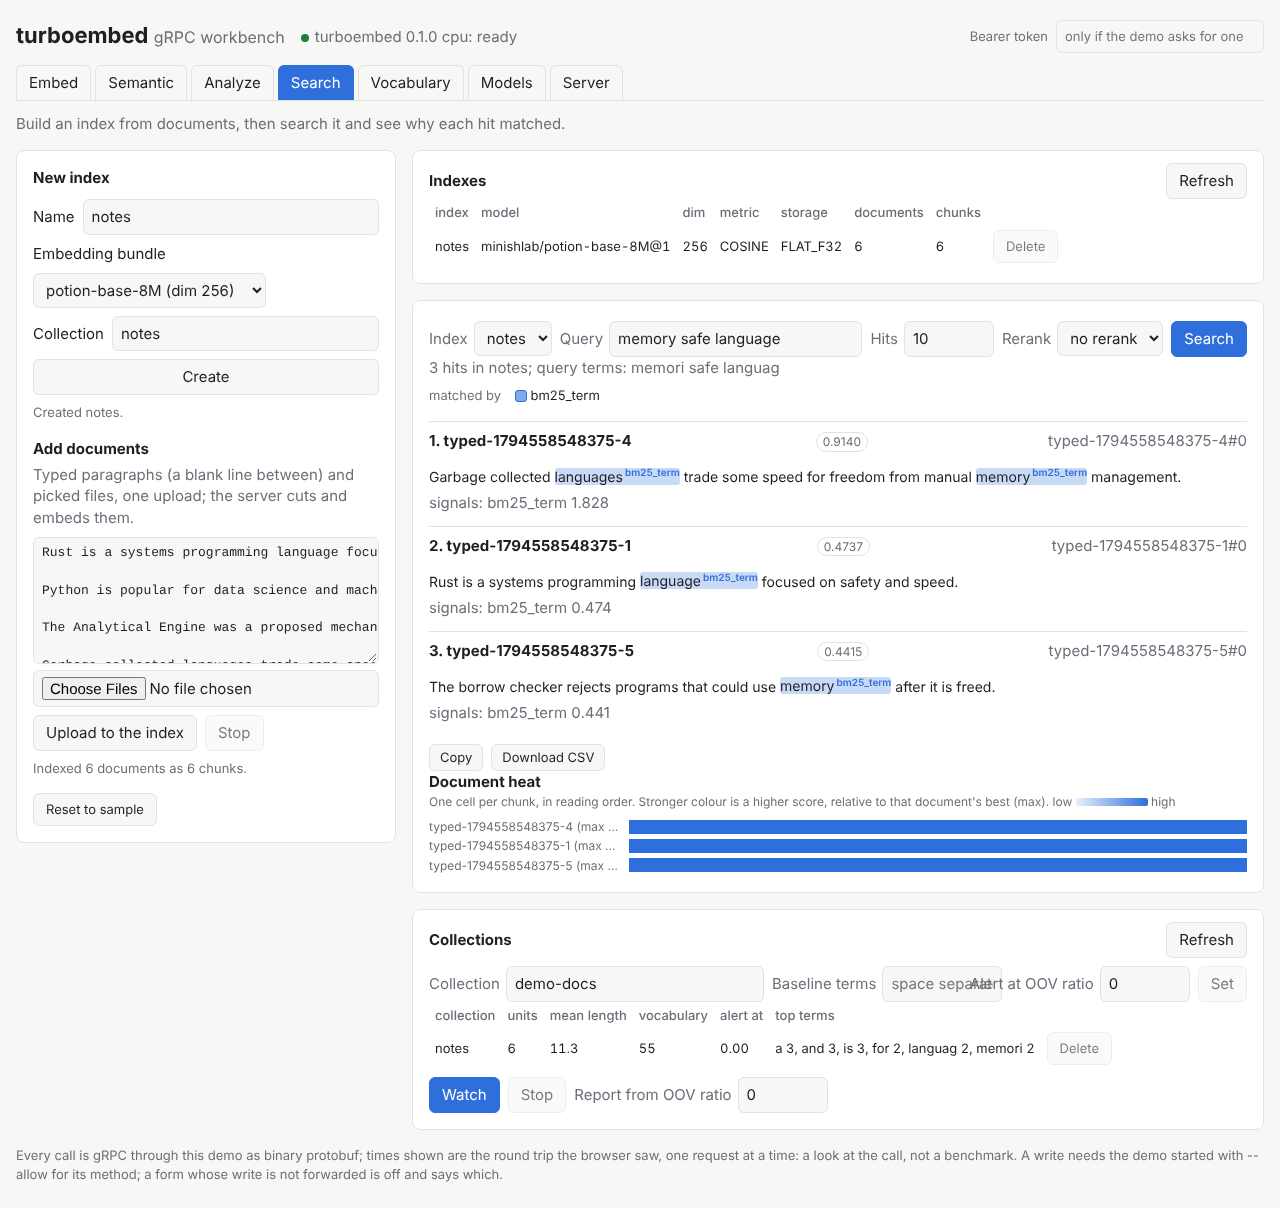
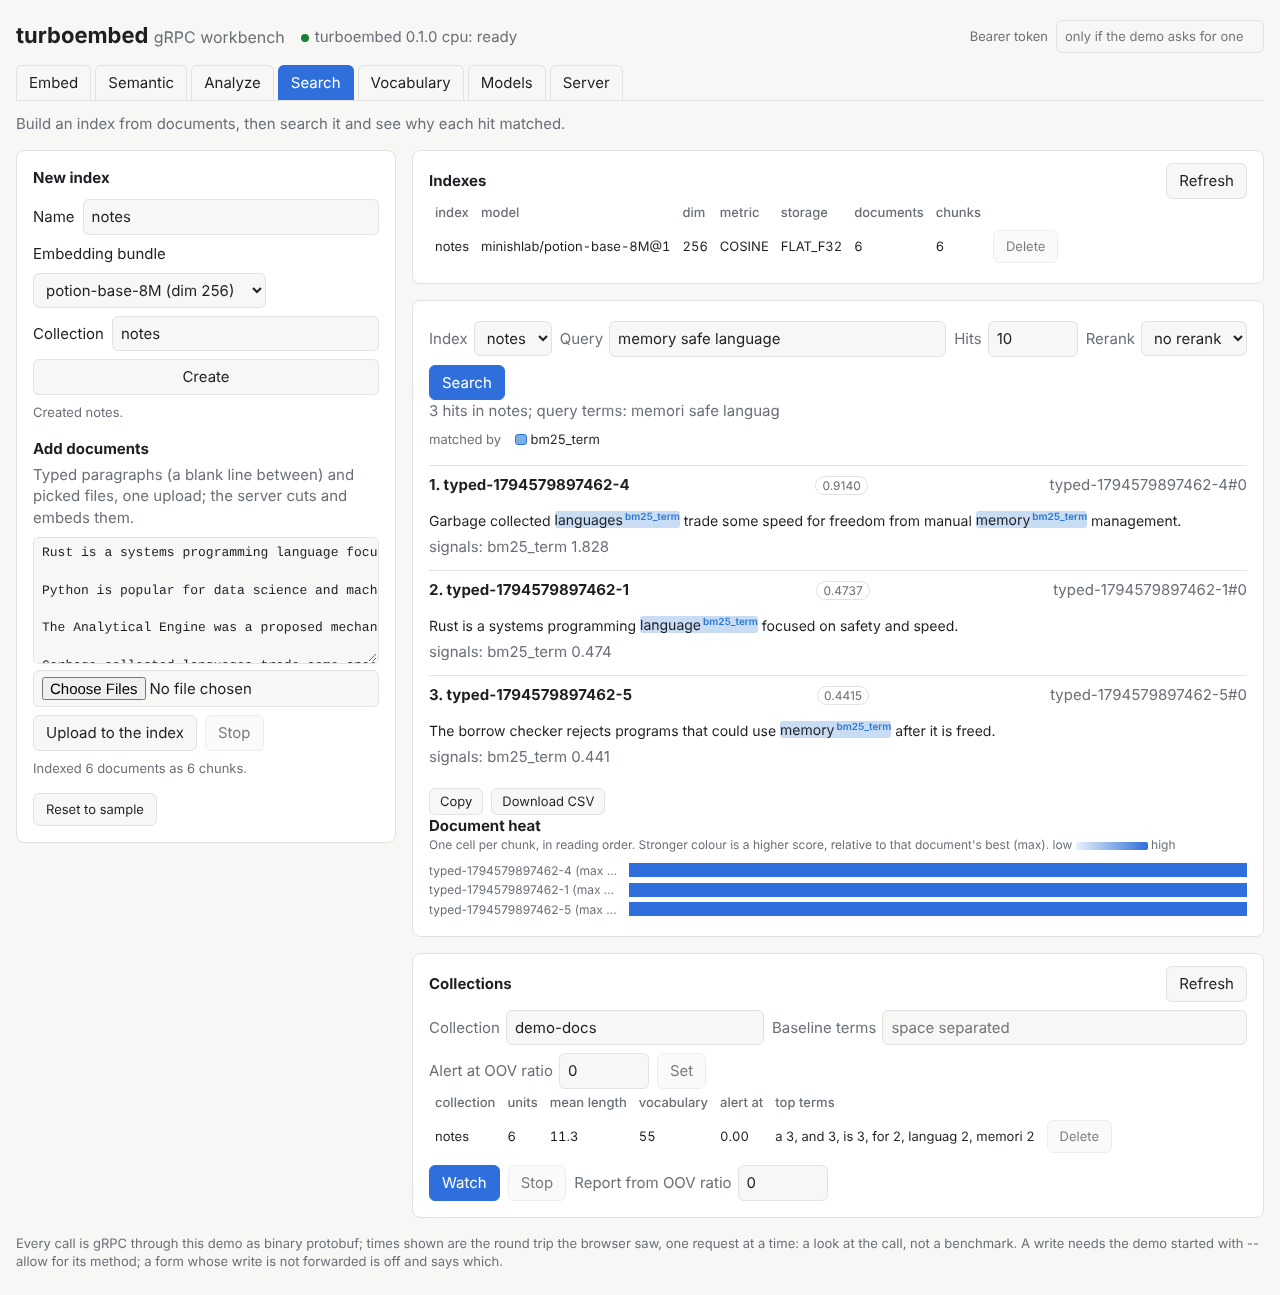
Retake the demo screenshots with the document map
Every picture in docs/images/demo is taken again on the current page,
and a new pair, analyze-map, shows the Document map: the meaning map,
the topic seismograph and the term river. The Analyze sample is a
longer document on four topics, Vocabulary learns in English with the
stopwords dropped, and scripts/demo-screenshots.sh takes
TURBO_SHOTS_MAX_SEQ so a static model's 8192 token width does not put
the whole sample in one chunk (the pictures use 128).

Claude-Session: https://claude.ai/code/session_01HaMXddYSHRx1SrGepnf1ft

diff --git a/demo/web/e2e/screenshots.ts b/demo/web/e2e/screenshots.ts
@@ -13,15 +13,25 @@ const MODEL = process.env.TURBO_SHOTS_MODEL ?? "";
 const WIDTH = 1280;
 const HEIGHT = 860;
 
-const DOCUMENT = `Ada Lovelace wrote the first published program in 1843. She worked with Charles Babbage in London on the Analytical Engine, a mechanical computer that was never finished.
+const DOCUMENT = `Ada Lovelace wrote the first published program in 1843. She worked with Charles Babbage in London on the Analytical Engine, a mechanical computer that was never finished. Babbage had designed the machine to read instructions from punched cards, an idea borrowed from the looms of the textile trade.
 
-Her notes describe how the engine could compute Bernoulli numbers, and they suggest that such a machine might one day compose music or draw graphics.
+Her notes on the engine are longer than the paper they accompany. They describe how it could compute Bernoulli numbers step by step, and they suggest that such a machine might one day compose music or draw graphics if its symbols stood for notes or shapes rather than numbers.
 
-The central bank in Frankfurt raised interest rates again this spring. Inflation had pushed borrowing costs higher across Europe, and lenders in Paris and Madrid followed within a week.
+Historians still argue over how much of the program was hers and how much came from Babbage, but the notes show a clear grasp of loops, of variables that change as a calculation proceeds, and of the difference between a machine that calculates and one that follows a general plan.
 
-Markets fell on the news, then recovered as traders read the statement more closely and decided that further rises were unlikely this year.
+The central bank in Frankfurt raised interest rates again this spring. Inflation had pushed borrowing costs higher across Europe, and lenders in Paris and Madrid followed within a week. Mortgage rates rose first, then the rates on business loans.
 
-A long walk along the coast near Lisbon ends at a lighthouse. The path climbs over low cliffs, past fishing boats and small cafes, and the light turns gold in the late afternoon.`;
+Markets fell on the news, then recovered as traders read the statement more closely and decided that further rises were unlikely this year. Bond yields settled a little higher than before, and the euro gained against the dollar for the first time in a month.
+
+Economists expect the effect on prices to take a year or more to show. Firms that borrowed heavily when money was cheap will feel it soonest, while households with fixed rate loans may not notice until their terms come up for renewal.
+
+A long walk along the coast near Lisbon ends at a lighthouse. The path climbs over low cliffs, past fishing boats pulled up on the sand and small cafes that open only in summer, and the light turns gold in the late afternoon.
+
+Walkers start early to avoid the heat. Water and a hat matter more than good boots, since the trail is dry and mostly flat, and the last bus back to the city leaves before the sun goes down.
+
+Sourdough bread needs only flour, water, salt and a starter, but it asks for patience. The dough rises slowly overnight in a cool kitchen, and the long fermentation gives the crust its colour and the crumb its sour taste.
+
+Bakers judge the dough by touch rather than by the clock. A loaf that has risen enough springs back slowly when pressed, and one baked too soon tears open along the side instead of the cut across the top.`;
 
 const PASSAGES = `Rust is a systems programming language focused on safety and speed.
 
@@ -77,6 +87,15 @@ const SHOTS: Shot[] = [
     },
   },
   {
+    name: "analyze-map",
+    tab: "analyze",
+    element: "#analyze-projection",
+    ready: async (page) => {
+      await page.waitForSelector("#analyze-projection[open]");
+      await page.waitForSelector("#projection-out .map-and-text");
+    },
+  },
+  {
     name: "analyze-wire",
     tab: "analyze",
     element: "#analyze-wire",
@@ -115,6 +134,8 @@ const SHOTS: Shot[] = [
     tab: "vocabulary",
     ready: async (page) => {
       await page.fill("#vocab-docs", PASSAGES);
+      await page.fill("#vocab-language", "en");
+      await page.check("#vocab-stopwords");
       await page.click("#vocab-learn button[type=submit]");
       await page.waitForSelector("#vocab-note:not([hidden])");
       await page.waitForFunction(() => (document.getElementById("vocab-stop") as HTMLButtonElement).disabled);

diff --git a/docs/demo.md b/docs/demo.md
@@ -617,8 +617,11 @@ and the dark scheme, 1280 px wide. They are the page in a real browser
 in front of a real server on the CPU, serving the static models
 `minishlab/potion-base-8M` and `minishlab/potion-base-32M` (MIT, made
 with `turbo-bundle make bundle/recipes/potion/potion-base-8M.json
-UPSTREAM BUNDLE`); every number in them is the server's answer.
-`scripts/demo-screenshots.sh BUNDLE [BUNDLE...]` takes them again:
+UPSTREAM BUNDLE`) with `max_seq=128`, so the chunker, which sizes
+chunks from the model's width, cuts the sample document into several
+chunks; every number in them is the server's answer.
+`TURBO_SHOTS_MAX_SEQ=128 scripts/demo-screenshots.sh BUNDLE [BUNDLE...]`
+takes them again:
 it builds both binaries in release, serves the bundles with a demo that
 forwards creating and filling an index and learning a vocabulary, and
 runs `demo/web/e2e/screenshots.ts`, which uses each tab as a visitor
@@ -639,11 +642,18 @@ Semantic: one query against five passages, the nearest by cosine and the passage
   <img alt="Semantic tab of the demo page" src="images/demo/semantic-light.png" width="640">
 </picture>
 
-Analyze: a document run through `default-v1` with an embedding model, its steps, layers, the place names found and the heatmap.
+Analyze: a document on four topics run through `default-v1` with an embedding model, its steps, layers, the place names found, the heatmap and the document map.
 
 <picture>
   <source media="(prefers-color-scheme: dark)" srcset="images/demo/analyze-dark.png">
   <img alt="Analyze tab of the demo page" src="images/demo/analyze-light.png" width="640">
+</picture>
+
+Analyze, Document map: the same document's chunks placed by their two main directions of meaning, the topic seismograph with the chunker's cuts, and the term river.
+
+<picture>
+  <source media="(prefers-color-scheme: dark)" srcset="images/demo/analyze-map-dark.png">
+  <img alt="Analyze, Document map tab of the demo page" src="images/demo/analyze-map-light.png" width="640">
 </picture>
 
 Analyze, Graph wire inspector: the graph's binary format read in the page, after a byte-for-byte round trip on the server.
@@ -660,7 +670,7 @@ Search: an index created and filled from the page, a query's hits with the words
   <img alt="Search tab of the demo page" src="images/demo/search-light.png" width="640">
 </picture>
 
-Vocabulary: the store after learning a vocabulary from typed documents.
+Vocabulary: the store after learning an English vocabulary from typed documents with the stopwords dropped.
 
 <picture>
   <source media="(prefers-color-scheme: dark)" srcset="images/demo/vocabulary-dark.png">
